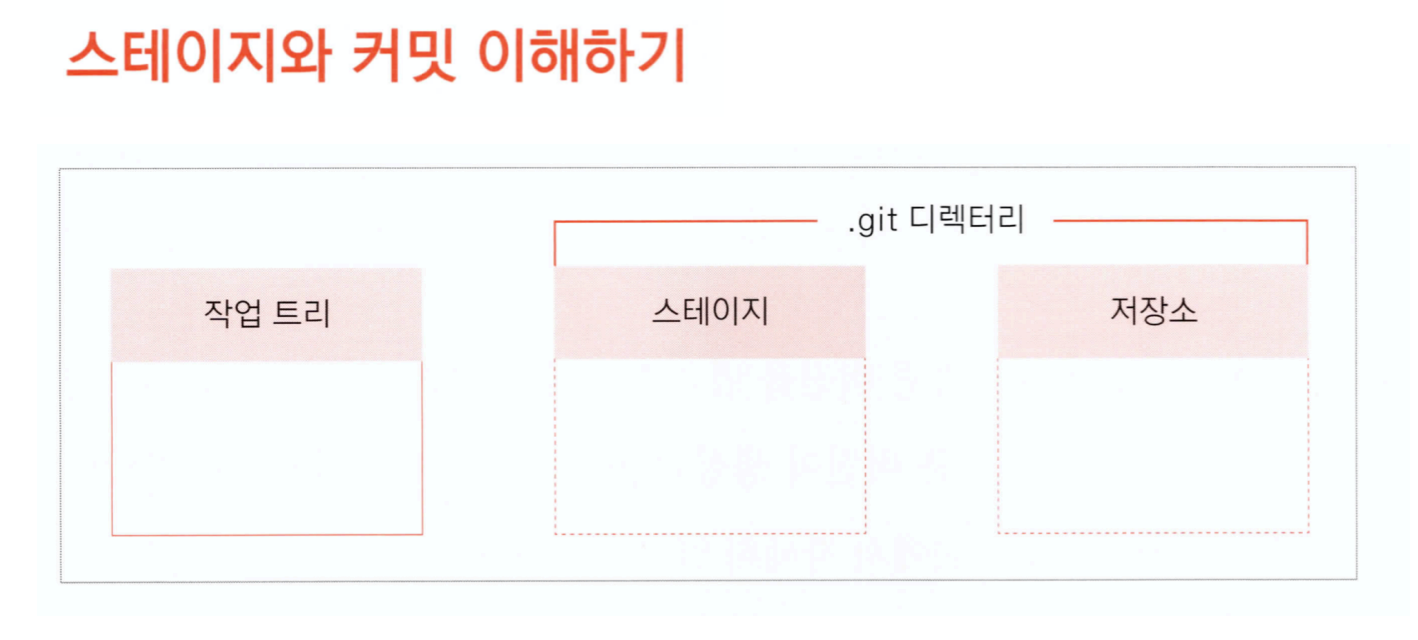
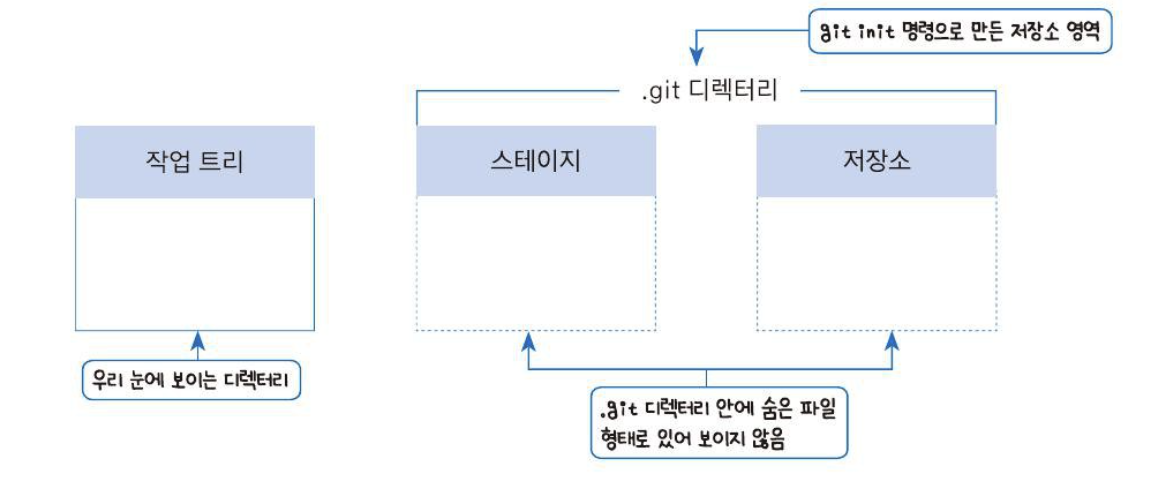
git image update

diff --git a/docs/07_DeepLearning/06_natural_language_processing.md b/docs/07_DeepLearning/06_natural_language_processing.md
@@ -1,0 +1,17 @@
+---
+title: natural language processing
+layout: default
+parent: DeepLearning
+nav_order: 5
+permalink: /deeplearning/natural_language_processing
+# nav_exclude: true
+# search_exclude: true
+---
+# 자연어 처리
+## 1. 텍스트 전처리
+## 2. 워드 임베딩
+## 3. 
+##
+##
+##
+##

diff --git a/docs/06_MachineLearning/00_machineLearning.md b/docs/06_MachineLearning/00_machineLearning.md
@@ -1,0 +1,16 @@
+---
+layout: default
+title: MachineLearning
+nav_order: 6
+has_children: true
+permalink: /machinelearning
+# nav_exclude: true
+# search_exclude: true
+---
+
+# DeepLearning
+{: .no_toc }
+
+
+
+{: .fs-6 .fw-300 }

diff --git a/docs/04_cloud/01_liunx.md b/docs/04_cloud/01_liunx.md
@@ -120,8 +120,7 @@ drwxr-xr-x   2 root root 4096 Apr 18  2022 boot
     - 읽고,쓰고,실행하는 권한을 관리
 
 ### ls와 파일 권한
-
-<img src="/img/img001.png" height="250px" width="350px">
+![권한변경](./img/linux/img001.png){:width="500px"}
 
 ### 파일 권한
 